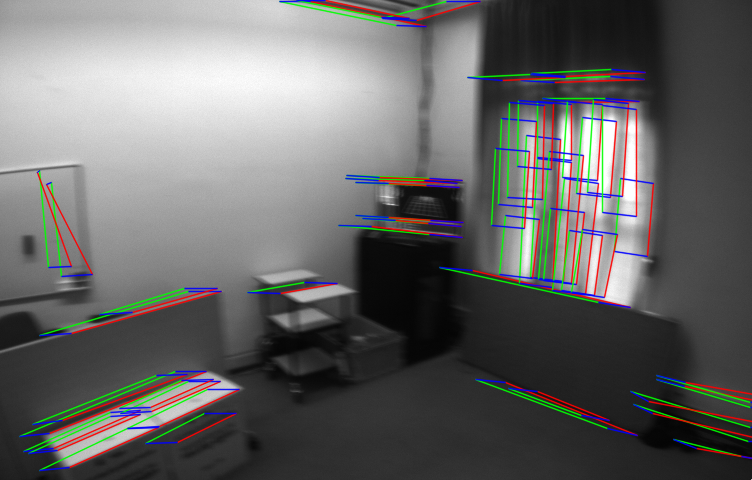
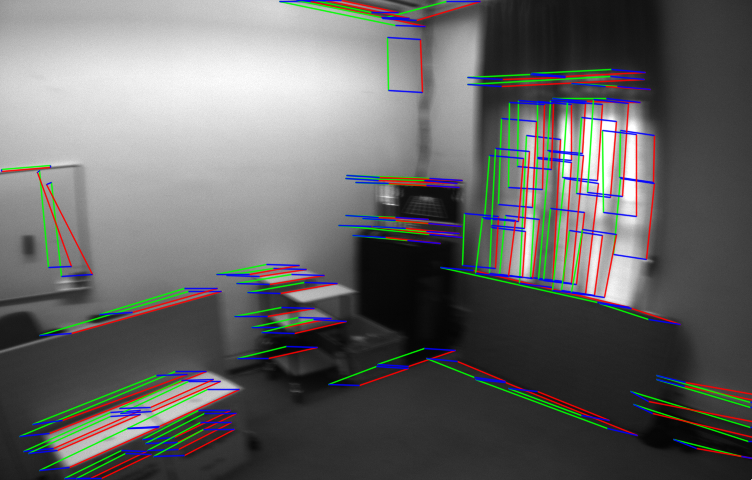
add zncc winsize param

diff --git a/src/line_flow.cpp b/src/line_flow.cpp
@@ -82,7 +82,8 @@ void LineLKTracker::operator() (
             LineLKSingleLevel(
                 prev_pyramid[level], next_pyramid[level],
                 prev_lines_kps, next_lines_kps,
-                status, g_param, level, use_check));
+                status, g_param, level, use_check, 
+                winsize_, zncc_winsize_, criteria_));
     }
 
     next_lines = prev_lines;
@@ -172,10 +173,9 @@ bool LineLKSingleLevel::OneLineLKTracker(
     }
 
     // Check angle
-    // if (check_ && std::fabs(*g3) > 0.10) {
-    //     std::cout << (*g3) << std::endl;
-    //     return false;
-    // }
+    if (check_ && std::fabs(*g3) > 0.10) {
+        return false;
+    }
 
 
     // update points
@@ -191,7 +191,7 @@ bool LineLKSingleLevel::OneLineLKTracker(
         // Check zncc
         if (level_ == 0 && check_) {
             float score = ZNCC(prev_kp, next_kp); 
-            if (score < 0.80) {
+            if (score < 0.95) {
                 outlier_count++;
             }
             if (outlier_count > cvRound(0.2 * next_line.size())) {
@@ -242,9 +242,9 @@ float LineLKSingleLevel::CalOnePoint(const cv::Point2f& point,
 inline float LineLKSingleLevel::GetImageValue(const cv::Mat& img,
                                               float x,
                                               float y) const {
-    // The img has been padding
-    // x = (x < 0) ? 0 : ((img.cols - 1) < x) ? (img.cols - 1) : x;
-    // y = (y < 0) ? 0 : ((img.rows - 1) < y) ? (img.rows - 1) : y;
+    //? The img has been padding
+    x = (x < 0) ? 0 : ((img.cols - 1) < x) ? (img.cols - 1) : x;
+    y = (y < 0) ? 0 : ((img.rows - 1) < y) ? (img.rows - 1) : y;
 
     int ix = cvFloor(x);
     int iy = cvFloor(y);
@@ -271,8 +271,8 @@ float LineLKSingleLevel::ZNCC(const cv::Point2f& prev_point,
     double mean_prev = 0;
     double mean_next = 0;
 
-    for (int y = -half_win_.y; y <= half_win_.y; ++y) {
-        for (int x = -half_win_.x; x <= half_win_.x; ++x) {
+    for (int y = -zncc_half_win_.y; y <= zncc_half_win_.y; ++y) {
+        for (int x = -zncc_half_win_.x; x <= zncc_half_win_.x; ++x) {
             float prev_pixel = GetImageValue(prev_img_, prev_point.x + x, prev_point.y + y) / 255.0;
             float next_pixel = GetImageValue(next_img_, next_point.x + x, next_point.y + y) / 255.0;
             mean_prev += prev_pixel;
@@ -281,8 +281,8 @@ float LineLKSingleLevel::ZNCC(const cv::Point2f& prev_point,
             vec_next_pixels.push_back(next_pixel);
         }
     }
-    mean_prev /= (winsize_.height * winsize_.width);
-    mean_next /= (winsize_.height * winsize_.width);
+    mean_prev /= (zncc_winsize_.height * zncc_winsize_.width);
+    mean_next /= (zncc_winsize_.height * zncc_winsize_.width);
 
     double numerator = 0, demoniator1 = 0, demoniator2 = 0;
     for (size_t i = 0; i < vec_prev_pixels.size(); ++i) {

diff --git a/include/line_flow.h b/include/line_flow.h
@@ -24,12 +24,13 @@ public:
                   int max_level = 5,
                   int n_track = 3,
                   bool check = true,
+                  const cv::Size& zncc_winsize = cv::Size(7, 7),
                   const cv::TermCriteria& criteria = cv::TermCriteria(
                     cv::TermCriteria::COUNT + cv::TermCriteria::EPS,
                     5,
                     0.01))
-     : winsize_(winsize), max_level_(max_level), 
-       n_track_(n_track), check_(check), criteria_(criteria) {}
+     : winsize_(winsize), max_level_(max_level), n_track_(n_track),
+       check_(check), zncc_winsize_(zncc_winsize) ,criteria_(criteria) {}
 
  void operator()(const cv::Mat& prev_img,
                  const cv::Mat& next_img,
@@ -45,6 +46,7 @@ private:
     int max_level_;
     int n_track_;
     bool check_;
+    cv::Size zncc_winsize_;
     cv::TermCriteria criteria_;
 };
 
@@ -60,6 +62,7 @@ public:
                       int level,
                       bool check = true,
                       const cv::Size& winsize = cv::Size(21, 21),
+                      const cv::Size& zncc_winsize = cv::Size(5, 5),
                       const cv::TermCriteria& criteria = cv::TermCriteria(
                        cv::TermCriteria::COUNT + cv::TermCriteria::EPS,
                        5,
@@ -73,8 +76,10 @@ public:
         level_(level),
         check_(check),
         winsize_(winsize),
+        zncc_winsize_(zncc_winsize),
         criteria_(criteria) {
         half_win_ = cv::Point2f((winsize_.width - 1) * 0.5f, (winsize_.height - 1) * 0.5f);
+        zncc_half_win_ = cv::Point2f((zncc_winsize_.width - 1) * 0.5f, (zncc_winsize_.height - 1) * 0.5f);
         if (params_.empty()) {
             params_.resize(prev_lines_.size() * 3, 0.f);
         }
@@ -116,7 +121,9 @@ private:
     int level_;
     bool check_;
     cv::Size winsize_;
+    cv::Size zncc_winsize_;
     cv::TermCriteria criteria_;
     cv::Point2f half_win_;
+    cv::Point2f zncc_half_win_;
 
 };
